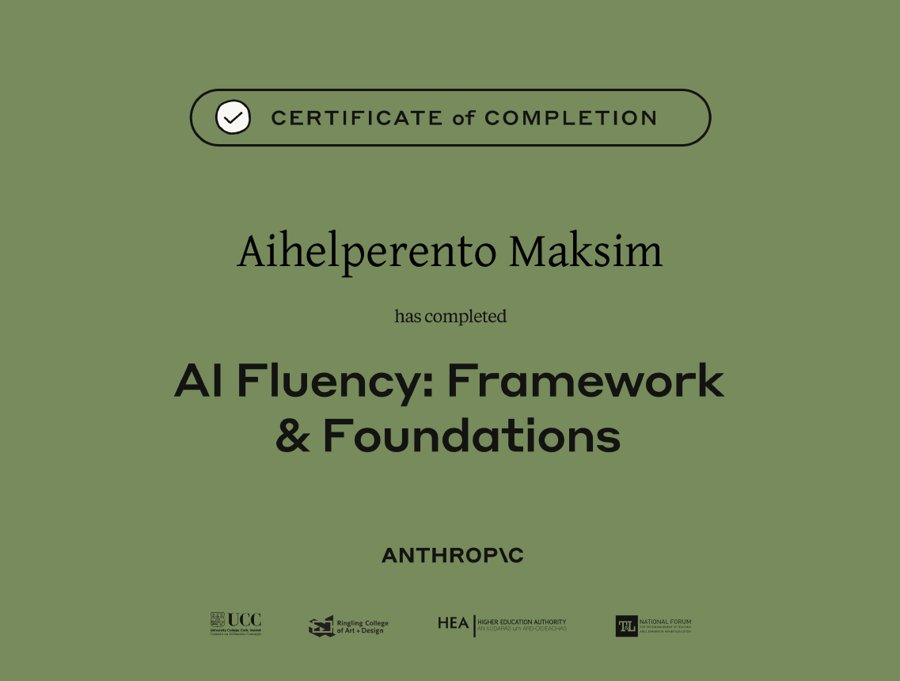
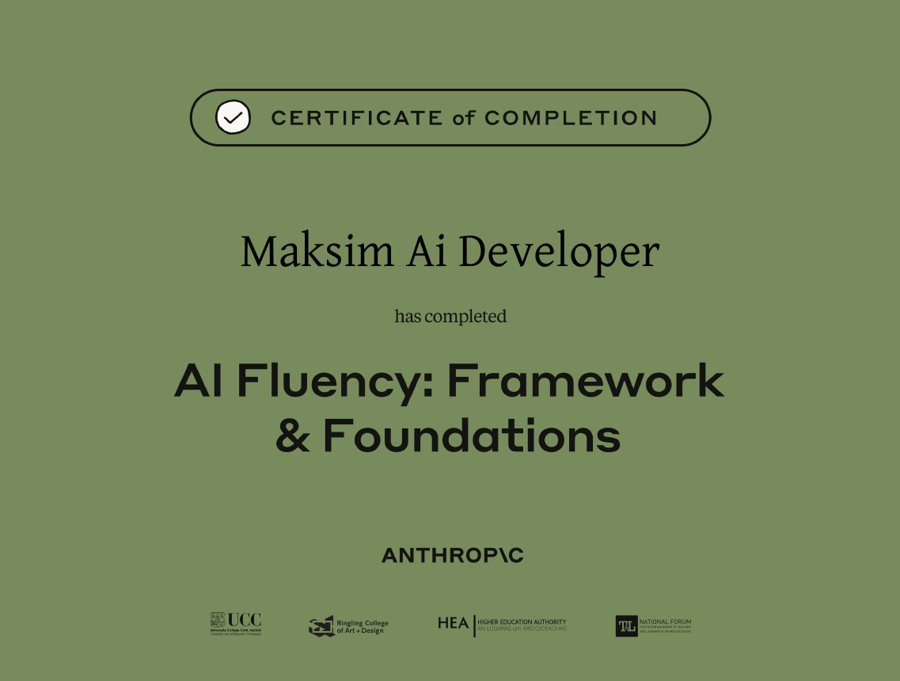
Update certificate (name: Maksim Ai Developer)
Claude-Session: https://claude.ai/code/session_01ESThtyjVZux1R3DeF2hLnQ

Changed region(s): [[0.2489, 0.3392, 0.7467, 0.4009]]

diff --git a/index.html b/index.html
@@ -776,7 +776,7 @@
               <li><b>Внимание к мелочам</b><span>Ровная вёрстка, адаптив под телефон, тёмная тема, быстрые страницы.</span></li>
               <li><b>Быстро учусь</b><span>Новые инструменты осваиваю под задачу и не останавливаюсь на том, что уже умею.</span></li>
             </ul>
-            <div class="cert"><a class="cert-img" href="https://verify.skilljar.com/c/7f4kchfb4b3k" target="_blank" rel="noopener"><img src="cert/ai-fluency.jpg" alt="Сертификат AI Fluency: Framework & Foundations" width="900" height="681" loading="lazy"></a><div class="cert-body"><small>Сертификат · Anthropic · 2026</small><b>AI Fluency: Framework &amp; Foundations</b><span>Курс от создателей Claude о том, как эффективно и ответственно работать с ИИ.</span><div class="cert-links"><a href="https://verify.skilljar.com/c/7f4kchfb4b3k" target="_blank" rel="noopener">Проверить подлинность ↗</a><a href="cert/ai-fluency.pdf" target="_blank" rel="noopener">Скачать PDF</a></div></div></div>
+            <div class="cert"><a class="cert-img" href="https://verify.skilljar.com/c/7f4kchfb4b3k" target="_blank" rel="noopener"><img src="cert/ai-fluency.jpg?v=3" alt="Сертификат AI Fluency: Framework & Foundations" width="900" height="681" loading="lazy"></a><div class="cert-body"><small>Сертификат · Anthropic · 2026</small><b>AI Fluency: Framework &amp; Foundations</b><span>Курс от создателей Claude о том, как эффективно и ответственно работать с ИИ.</span><div class="cert-links"><a href="https://verify.skilljar.com/c/7f4kchfb4b3k" target="_blank" rel="noopener">Проверить подлинность ↗</a><a href="cert/ai-fluency.pdf?v=3" target="_blank" rel="noopener">Скачать PDF</a></div></div></div>
           </div>
         </div>
   </div></dialog>

diff --git a/en/index.html b/en/index.html
@@ -767,7 +767,7 @@
               <li><b>Attention to detail</b><span>Clean layout, mobile-friendly, dark mode, fast pages.</span></li>
               <li><b>Fast learner</b><span>I pick up new tools for each task and keep growing beyond what I already know.</span></li>
             </ul>
-            <div class="cert"><a class="cert-img" href="https://verify.skilljar.com/c/7f4kchfb4b3k" target="_blank" rel="noopener"><img src="../cert/ai-fluency.jpg" alt="AI Fluency: Framework & Foundations certificate" width="900" height="681" loading="lazy"></a><div class="cert-body"><small>Certificate · Anthropic · 2026</small><b>AI Fluency: Framework &amp; Foundations</b><span>A course by the makers of Claude on using AI effectively and responsibly.</span><div class="cert-links"><a href="https://verify.skilljar.com/c/7f4kchfb4b3k" target="_blank" rel="noopener">Verify ↗</a><a href="../cert/ai-fluency.pdf" target="_blank" rel="noopener">Download PDF</a></div></div></div>
+            <div class="cert"><a class="cert-img" href="https://verify.skilljar.com/c/7f4kchfb4b3k" target="_blank" rel="noopener"><img src="../cert/ai-fluency.jpg?v=3" alt="AI Fluency: Framework & Foundations certificate" width="900" height="681" loading="lazy"></a><div class="cert-body"><small>Certificate · Anthropic · 2026</small><b>AI Fluency: Framework &amp; Foundations</b><span>A course by the makers of Claude on using AI effectively and responsibly.</span><div class="cert-links"><a href="https://verify.skilljar.com/c/7f4kchfb4b3k" target="_blank" rel="noopener">Verify ↗</a><a href="../cert/ai-fluency.pdf?v=3" target="_blank" rel="noopener">Download PDF</a></div></div></div>
           </div>
         </div>
   </div></dialog>
